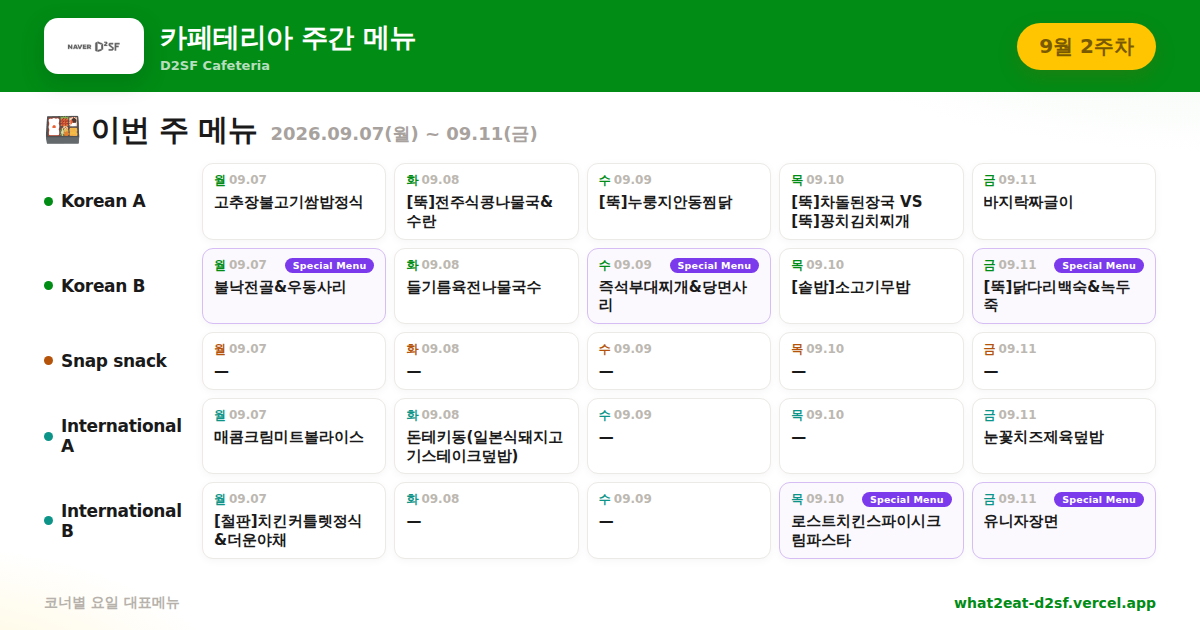
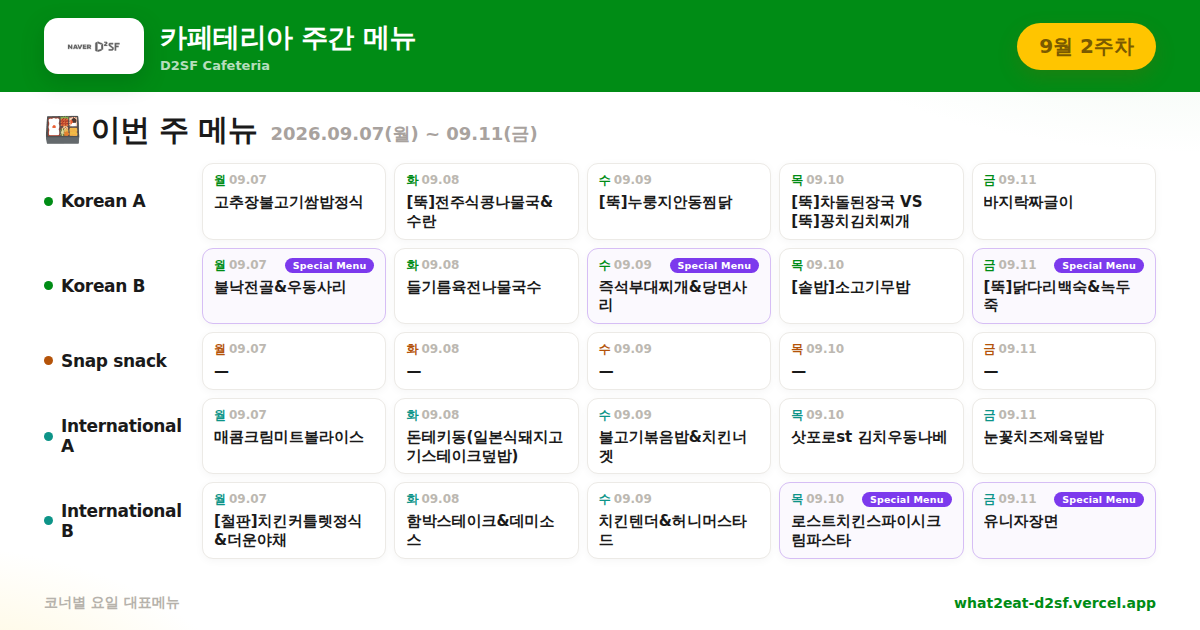
식단 w15: International A(수·목)·B(화·수) 판독 보류 칸 채움
IntA 수는 밀박스 근거, 나머지 3칸(IntA 목, IntB 화·수)은 이미지 최선 추정.

Claude-Session: https://claude.ai/code/session_01CCk7kE6nDbFDt1BnXJzGQQ

diff --git a/src/data/menu-2026-w15.js b/src/data/menu-2026-w15.js
@@ -61,11 +61,13 @@ const sets = [
 
   S("중식", "월", "International A", 9400, "양식", [["매콤크림미트볼라이스", 600], ["우동국", 200], ["갈릭파이", 250], ["양상추샐러드&참깨D", 100], ["할라피뇨", 10]]),
   S("중식", "화", "International A", 9400, "일식", [["돈테키동(일본식돼지고기스테이크덮밥)", 650], ["팽이버섯장국", 80], ["고구마김", 150], ["콘샐러드", 100], ["깍두기", 20]]),
-  // ⚠ 중식 International A 수·목 셋은 이미지 판독이 어려워 보류했습니다. (원문 확인 후 추가 예정)
+  S("중식", "수", "International A", 9400, "중식", [["불고기볶음밥&치킨너겟", 600], ["유부장국", 80], ["군만두", 200], ["양상추샐러드&오리엔탈D", 100], ["깍두기", 20]]),
+  S("중식", "목", "International A", 9400, "일식", [["삿포로st 김치우동나베", 550], ["갈비탕육수", 100], ["새우튀김", 200], ["양상추샐러드&시저D", 100], ["깍두기", 20]]),
   S("중식", "금", "International A", 9400, "양식", [["눈꽃치즈제육덮밥", 650], ["계란국", 80], ["알감자꼬치&타르타르", 250], ["양배추샐러드&발사믹D", 100], ["깍두기", 20]]),
 
   S("중식", "월", "International B", 9900, "양식", [["[철판]치킨커틀렛정식&더운야채", 600], ["쌀밥", 300], ["콘스프", 140], ["푸실리범벅", 300], ["양상추샐러드&참깨D", 100], ["오이피클", 20], ["깍두기", 20]]),
-  // ⚠ 중식 International B 화·수 셋은 이미지 판독이 어려워 보류했습니다. (원문 확인 후 추가 예정)
+  S("중식", "화", "International B", 9900, "양식", [["함박스테이크&데미소스", 600], ["흑미밥", 310], ["콘스프", 140], ["푸실리범벅", 300], ["양상추샐러드&참깨D", 100], ["오이피클", 20]]),
+  S("중식", "수", "International B", 9900, "양식", [["치킨텐더&허니머스타드", 550], ["유부장국", 80], ["양배추샐러드&키위D", 100], ["수제피클", 20], ["탄산음료", 100]]),
   S("중식", "목", "International B", 9900, "양식", [["로스트치킨스파이시크림파스타", 620], ["칠리치즈프라이", 300], ["양배추샐러드&딸기D", 100], ["수제피클", 20], ["탄산음료", 100]], "단가"),
   S("중식", "금", "International B", 9900, "중식", [["유니자장면", 600], ["추가밥", 200], ["짬뽕", 300], ["크림새우", 250], ["짜사이무침", 40], ["단무지", 20], ["포기김치", 15]], "단가"),
 
